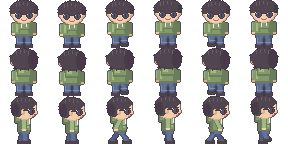
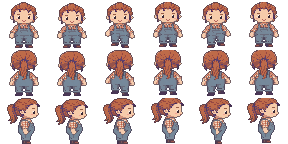
사냥꾼을 사용자 새 그림(포니테일 · 체크 셔츠 · 멜빵바지)으로 교체
- import_ai_character.py: 그림 순서(--order), 포니테일(--hair-span/--front-hair),
  체크무늬 짙은 선(--dark-hair), 멜빵바지(--sleeves) 옵션. 볼 같은 작은 윗도리 조각 정리
- 사냥꾼 얼굴 손질: 둥근 눈 + 반짝, 가는 눈썹, 볼, 웃는 입 (hunter_patch.json)
- make_wear_sheets.py: 사냥꾼 장비 11종을 새 몸에 맞춤 (모자 4 · 조끼 2 · 망토 · 신 4).
  멜빵바지 가슴판도 옷이 덮고(BIB), 모자는 2줄 올림(HAT_DY). 망토는 몸 뒤로 삐져나오게
- 스모크 테스트의 불씨 검사가 동행 공격 간격에 따라 흔들리던 것 고침

Claude-Session: https://claude.ai/code/session_01NHM2Py4KG4VeAYANDgtzPN

diff --git a/tools/make_wear_sheets.py b/tools/make_wear_sheets.py
@@ -308,11 +308,16 @@ ITEMS = {
 # 부위 지도(tools/char_parts/<몸>.png)가 있는 캐릭터의 장비는 아래 방식으로 새 몸에 맞춘다.
 #   모자: 위 모자 그림을 옛 머리(가로 11-36, 머리끝 y=1) 기준에서 새 머리카락 상자로 옮기고 늘려 그린다.
 #   옷 · 신발: 새 몸의 옷 · 신발 픽셀을 장비 색으로 다시 칠한다 (밝기 순서를 지켜 음영이 그대로 산다).
-BODY_OF = {"farmer": "player"}  # 누가 입는지 → 몸 시트 이름 (사냥꾼은 아직 옛 몸이라 위 그림 그대로)
+BODY_OF = {"farmer": "player", "hunter": "hunter"}  # 누가 입는지 → 몸 시트 이름 (부위 지도가 없는 몸은 위 그림 그대로)
 PARTS_DIR = os.path.join(os.path.dirname(__file__), "char_parts")
 PART = {"hair": (40, 40, 40), "skin": (250, 200, 160), "top": (160, 160, 160), "pants": (70, 100, 200),
         "shoes": (120, 60, 20), "detail": (255, 255, 255)}  # import_ai_character.PART_COLORS 와 같음
 OLD_HEAD_X0, OLD_HEAD_X1, OLD_HEAD_TOP = 11, 36, 1
+# 멜빵바지처럼 바지가 가슴까지 올라오는 몸: 이 줄(칸 y)까지의 바지 픽셀도 옷(조끼 · 망토)이 덮는다
+BIB = {"hunter": 33}
+# 모자를 머리카락 위에서 몇 줄 옮길지 (사냥꾼은 정수리 올림머리 때문에 모자가 눈을 가려 2줄 올린다)
+HAT_DY = {"hunter": -2}
+CUR_BODY = [None]
 
 
 class Warp:
@@ -414,18 +419,46 @@ def fit_hat(draw_hat):
         band = [x for x, y in pp["hair"] if y == hy0 + 4]
         cx = (min(band) + max(band)) / 2 if band else (hx0 + hx1) / 2
         ox = round(cx - (OLD_HEAD_X1 - OLD_HEAD_X0) / 2)
-        c = Warp(Canvas(img, col * CELL, row * CELL), ox, hy0 + 2, 1.0, 1.0)
+        c = Warp(Canvas(img, col * CELL, row * CELL), ox, hy0 + 2 + HAT_DY.get(CUR_BODY[0], 0), 1.0, 1.0)
         draw_hat(c, row, 0)
     return fn
 
 
-def fit_top(ramp, vest=False, pocket=None, stripe=None):
-    """옷: 윗도리 픽셀을 다시 칠한다. vest 면 팔(손 위 세로줄)은 남기고, 정면은 앞섶을 연다."""
+def clothes_pts(pp, row, hs):
+    """옷이 덮는 픽셀: 윗도리 + (BIB 몸이면) 가슴까지 올라온 바지. 손 자리는 뺀다."""
+    pts = set(pp["top"])
+    bib = BIB.get(CUR_BODY[0])
+    if bib:
+        hand_x = {x for a, b in hs for x in range(a, b + 1)}
+        pts |= {(x, y) for x, y in pp["pants"] if y <= bib and (row == 2 or x not in hand_x)}
+        # 머리카락 끝 같은 떨어진 부스러기 (5픽셀 이하 덩어리) 는 뺀다
+        keep, seen = set(), set()
+        for p0 in pts:
+            if p0 in seen:
+                continue
+            comp, stack = [], [p0]
+            seen.add(p0)
+            while stack:
+                x, y = stack.pop()
+                comp.append((x, y))
+                for n in ((x + 1, y), (x - 1, y), (x, y + 1), (x, y - 1)):
+                    if n in pts and n not in seen:
+                        seen.add(n)
+                        stack.append(n)
+            if len(comp) > 5:
+                keep |= set(comp)
+        pts = keep
+    return pts
+
+
+def fit_top(ramp, vest=False, pocket=None, stripe=None, lace=None, belt=False):
+    """옷: 윗도리 픽셀을 다시 칠한다. vest 면 팔(손 위 세로줄)은 남기고, 정면은 앞섶을 연다.
+    lace 가 있으면 앞섶을 열지 않고 가운데를 그 색 끈으로 여민다 (사냥꾼 조끼). belt 면 아랫단에 허리띠."""
     def fn(img, row, col, body, pp, edge, pose):
         top = pp["top"]
-        tx0, ty0, tx1, ty1 = bbox(top)
-        pts = set(top)
         hs = hands(pp, top, row)
+        pts = top = clothes_pts(pp, row, hs)
+        tx0, ty0, tx1, ty1 = bbox(top)
         mid = (tx0 + tx1) / 2
         # 소매가 있을 때만 팔을 남긴다. 윗도리 줄 가운데쯤에서 몸 가장자리가 살색이면 맨팔
         body_px = set().union(*pp.values())
@@ -440,7 +473,7 @@ def fit_top(ramp, vest=False, pocket=None, stripe=None):
                 # 소매: 손 위 세로줄 + 몸 쪽으로 2줄
                 a, b = (a, b + 2) if b < mid else (a - 2, b)
                 pts = {(x, y) for x, y in pts if not (a <= x <= b and y > ty0 + 1)}
-        if vest and row == 0:  # 앞섶을 열어 안의 옷이 보이게
+        if vest and row == 0 and not lace:  # 앞섶을 열어 안의 옷이 보이게
             pts = {(x, y) for x, y in pts if abs(x + 0.5 - mid) > 1.6 or y < ty0 + 2}
         paint_ramp(img, row, col, body, pts, edge, ramp)
         c = Canvas(img, col * CELL, row * CELL)
@@ -452,16 +485,91 @@ def fit_top(ramp, vest=False, pocket=None, stripe=None):
             for x0, y0 in spots:
                 c.rect(x0, y0, x0 + 3, y0 + 3, ramp[0])
                 c.rect(x0 + 1, y0 + 1, x0 + 2, y0 + 2, pocket)
+        p = img.load()
         if stripe:
             sy = ty0 + (ty1 - ty0) * 2 // 3
-            p = img.load()
             for x, y in pts:
                 if y == sy and (x, y) not in edge:
                     p[col * CELL + x, row * CELL + y] = (*stripe, 255)
+        if belt:
+            for x, y in pts:
+                if y == ty1 - 1 and (x, y) not in edge:
+                    p[col * CELL + x, row * CELL + y] = (*ramp[0], 255)
+        if lace and row == 0:  # 가운데 끈: 두 줄마다 한 칸 (x 두 칸)
+            for x, y in pts:
+                if abs(x + 0.5 - mid) <= 1 and (y - ty0) % 3 == 2 and ty0 + 1 < y < ty1 - 1 and (x, y) not in edge:
+                    p[col * CELL + x, row * CELL + y] = (*lace, 255)
     return fn
 
 
-def fit_feet(ramp, shaft=0, accent=None):
+def fit_cape(ramp, clasp):
+    """망토: 새 몸 옷 픽셀을 따라 그린다 (머리카락 · 손 위에는 안 그린다).
+    뒷모습은 옷 전체 + 아래로 늘어진 자락, 정면은 어깨 한 줄 + 양옆 2줄 + 가운데 브로치,
+    옆모습은 등 쪽 3줄 + 아래로 늘어진 자락."""
+    d, m, l = ramp
+    line = (int(m[0] * 0.35 + 15.6), int(m[1] * 0.35 + 14.4), int(m[2] * 0.35 + 28.8))
+
+    def paint(img, row, col, cape, edge):
+        # 셔츠 무늬 음영을 따르지 않고 판판하게 칠한다 (체크무늬는 48px 에서 거의 선이라 ramp 로는 선 색만 나온다)
+        p = img.load()
+        for x, y in cape:
+            p[col * CELL + x, row * CELL + y] = (*(line if (x, y) in edge else m), 255)
+
+    def fn(img, row, col, body, pp, edge, pose):
+        pts = clothes_pts(pp, row, hands(pp, pp["top"], row))
+        tx0, ty0, tx1, ty1 = bbox(pts)
+        rows = {}
+        for x, y in pts:
+            rows.setdefault(y, []).append(x)
+        c = Canvas(img, col * CELL, row * CELL)
+        mid = (tx0 + tx1) // 2
+        if row == 1:
+            paint(img, row, col, pts, edge)
+            lo, hi = min(rows[ty1]), max(rows[ty1])
+            c.rect(lo, ty1 + 1, hi, ty1 + 3, m)  # 옷 아래로 3줄 늘어짐
+            c.rect(hi - 1, ty1 + 1, hi, ty1 + 3, d)
+            for x in range(lo, hi, 4):
+                c.rect(x, ty1 + 4, x + 1, ty1 + 4, d)  # 잎 모양 끝단
+            return
+        # 정면 · 옆모습: 망토는 몸 뒤에 있으니 몸 밖(투명한 자리)으로 삐져나온 부분만 그린다 + 어깨 · 브로치
+        body_px = set().union(*pp.values())
+        cape = set()
+        for y in range(ty0 + 1, ty1 + 4):
+            span = sorted(x for x, yy in body_px if yy == y)
+            if not span:
+                continue
+            if row == 2:
+                # 옆: 등 쪽 몸통 가장자리 (옷 픽셀 중 가장 왼쪽) 바깥 3칸, 아래로 갈수록 1칸 더 벌어짐
+                xs = rows.get(y) or rows[ty1]
+                x0 = min(xs)
+                flare = 1 if y > ty1 else 0
+                cape |= {(x, y) for x in range(x0 - 3 - flare, x0) if (x, y) not in body_px}
+            else:
+                lo, hi = span[0], span[-1]
+                cape |= {(lo - 1, y), (hi + 1, y)}
+                if y > ty0 + 3:
+                    cape |= {(lo - 2, y), (hi + 2, y)}
+        if row == 0:
+            shoulder = {(x, y) for x, y in pts if y <= ty0 + 1}
+            cape |= shoulder
+        p = img.load()
+        for x, y in cape:
+            if 0 <= x < CELL and 0 <= y < CELL:
+                p[col * CELL + x, row * CELL + y] = (*(d if row == 2 and y % 3 == 0 else m), 255)
+        # 망토 겉 테두리는 make_fit 뒤에 따로 두르지 않으니 여기서 보랏빛 선
+        for x, y in cape:
+            for nx, ny in ((x - 1, y), (x + 1, y), (x, y + 1)):
+                if (nx, ny) not in cape and (nx, ny) not in body_px and 0 <= nx < CELL and 0 <= ny < CELL:
+                    p[col * CELL + nx, row * CELL + ny] = (*line, 255)
+        if row == 2:
+            x0 = min(rows[ty0])
+            c.rect(x0, ty0, x0 + 1, ty0 + 1, clasp)
+        else:
+            c.rect(mid - 1, ty0 + 1, mid + 1, ty0 + 2, clasp)
+    return fn
+
+
+def fit_feet(ramp, shaft=0, accent=None, lace=None, trim=None):
     """신발: 신발 픽셀을 다시 칠한다. shaft 면 그 줄 수만큼 바짓단도 장화 목으로 덮는다."""
     def fn(img, row, col, body, pp, edge, pose):
         shoes = set(pp["shoes"])
@@ -477,12 +585,33 @@ def fit_feet(ramp, shaft=0, accent=None):
                 cover.add((x, y))
         pts |= cover
         paint_ramp(img, row, col, body, pts, edge, ramp)
+        p = img.load()
         if accent and cover:
-            p = img.load()
             for x, y in cover:
                 if y == min(yy for xx, yy in cover if xx == x) and (x, y) not in edge:
                     p[col * CELL + x, row * CELL + y] = (*accent, 255)
+        if lace and shoes:  # 신발 윗줄 가운데 끈 한 점씩 (발마다)
+            for a, b in runs(sorted({x for x, _ in shoes})):
+                x = (a + b) // 2
+                y = min(yy for xx, yy in shoes if xx == x) + 1
+                if (x, y) in shoes and (x, y) not in edge:
+                    p[col * CELL + x, row * CELL + y] = (*lace, 255)
+        if trim and pts:  # 장화 목 둘레 (깃털 테): 각 세로줄 맨 위 한 칸 위로
+            c = Canvas(img, col * CELL, row * CELL)
+            for x in {x for x, _ in pts}:
+                c.px(x, min(y for xx, y in pts if xx == x) - 1, trim)
     return fn
+
+
+def runs(xs):
+    """이어진 x 묶음 [(시작, 끝)]"""
+    out = []
+    for x in xs:
+        if out and x - out[-1][1] <= 1:
+            out[-1][1] = x
+        else:
+            out.append([x, x])
+    return out
 
 
 FIT = {
@@ -492,6 +621,18 @@ FIT = {
     "rain_suit": fit_top(((50, 66, 100), (70, 92, 132), (100, 126, 166)), stripe=(236, 214, 80)),
     "rain_boots": fit_feet((RUBBER_D, RUBBER, RUBBER_L), shaft=4),
     "work_boots": fit_feet(((40, 40, 48), (62, 62, 72), (96, 96, 108)), shaft=3, accent=(232, 196, 70)),
+    # 사냥꾼 (2026-09-30 사냥꾼 교체 준비. 몸 시트 hunter 에 부위 지도가 생기면 새 몸에 맞춰 그린다)
+    "ball_cap": fit_hat(cap),
+    "acorn_helm": fit_hat(acorn_helm),
+    "leather_hood": fit_hat(leather_hood),
+    "hard_hat": fit_hat(hard_hat),
+    "hunter_jerkin": fit_top((LEATHER_D, LEATHER, LEATHER_L), vest=True, lace=STITCH, belt=True),
+    "hiking_vest": fit_top(((172, 80, 56), (224, 112, 70), (244, 152, 112)), vest=True, stripe=(250, 240, 220)),
+    "forest_cape": fit_cape((CAPE_D, CAPE, CAPE_L), CLASP),
+    "hiking_shoes": fit_feet((HIKE_D, HIKE, (164, 120, 84)), shaft=1, lace=LACE),
+    "safety_shoes": fit_feet(((44, 44, 52), (72, 72, 82), (104, 104, 116)), shaft=1, lace=(204, 208, 216)),
+    "feather_boots": fit_feet((FEATHER_B_D, FEATHER_B, (140, 156, 200)), shaft=4, trim=FEATHER),
+    "leather_shoes": fit_feet((LEATHER_D, LEATHER, LEATHER_L), shaft=1, lace=STITCH),
 }
 
 
@@ -501,6 +642,7 @@ def make_fit(name, fn, body_name):
     img = Image.new("RGBA", (CELL * COLS, CELL * ROWS), (0, 0, 0, 0))
     hat = Image.new("RGBA", img.size, (0, 0, 0, 0))
     poses = IDLE + WALK
+    CUR_BODY[0] = body_name
     for row in range(ROWS):
         for col in range(COLS):
             pp, edge = cell_parts(parts, row, col)
@@ -514,7 +656,7 @@ def make_fit(name, fn, body_name):
     return path
 
 
-HAT_FITS = {FIT["straw_hat"], FIT["work_cap"]}
+HAT_FITS = {FIT[k] for k in ("straw_hat", "work_cap", "ball_cap", "acorn_helm", "leather_hood", "hard_hat")}
 
 
 def who_of(name):

diff --git a/tools/import_ai_character.py b/tools/import_ai_character.py
@@ -15,6 +15,7 @@
   5. 걷기 4 · 숨쉬기 2 프레임을 다리 · 윗몸을 옮겨 만든다.
 
 실행: python3 tools/import_ai_character.py 그림.png --name player [--width 30] [--height 46] [--patch tools/char_parts/player_patch.json]
+      그림 순서가 정면 · 옆 · 뒤면 --order down,side,up
       --preview 파일.png 를 주면 4배 확대 미리보기도 저장한다.
 """
 import argparse
@@ -126,9 +127,13 @@ def classify(c, yf, refs):
             d = sum((a - b) ** 2 for a, b in zip(c, r))
             if d < bd:
                 best, bd = part, d
-    if lum(c) < 60 and best not in ("hair", "shoes"):
+    if lum(c) < 60 and (best not in ("hair", "shoes") or (best == "hair" and yf > DARK_HAIR_MAX)):
         return None
     return best
+
+
+# 이 높이 아래의 어두운 선은 머리카락으로 치지 않는다 (체크무늬 셔츠 선이 머리카락이 되지 않게). --dark-hair
+DARK_HAIR_MAX = 1.0
 
 
 def soften(c, lift, sat):
@@ -186,8 +191,32 @@ def part_map(img, refs):
             if v is None:
                 ns = Counter(lab.get((x + dx, y + dy)) for dx in (-1, 0, 1) for dy in (-1, 0, 1))
                 ns.pop(None, None)
+                if y / (h - 1) > DARK_HAIR_MAX:
+                    ns.pop("hair", None)
                 if ns:
                     lab[x, y] = ns.most_common(1)[0][0]
+    # 윗도리 색과 비슷한 볼 · 입 같은 작은 조각 (3픽셀 이하 덩어리) 은 이웃 부위로. --dark-hair 아래 머리카락 부스러기도
+    for part in ("top", "hair"):
+        seen = set()
+        for start in [k for k, v in lab.items() if v == part]:
+            if start in seen:
+                continue
+            comp, stack = [], [start]
+            seen.add(start)
+            while stack:
+                x, y = stack.pop()
+                comp.append((x, y))
+                for n in ((x + 1, y), (x - 1, y), (x, y + 1), (x, y - 1)):
+                    if n not in seen and lab.get(n) == part:
+                        seen.add(n)
+                        stack.append(n)
+            if len(comp) <= 3 and (part == "top" or min(y for _, y in comp) / (h - 1) > DARK_HAIR_MAX):
+                for x, y in comp:
+                    ns = Counter(lab.get((x + dx, y + dy)) for dx in (-1, 0, 1) for dy in (-1, 0, 1))
+                    ns.pop(None, None)
+                    ns.pop(part, None)
+                    if ns:
+                        lab[x, y] = ns.most_common(1)[0][0]
     # 바지 윗줄 아래로 내려온 윗도리 색 (다리 사이 선 등) 은 바지로
     rows = [Counter(v for (x, yy), v in lab.items() if yy == y) for y in range(h)]
     pants_top = next((y for y in range(h) if rows[y]["pants"] > max(2, rows[y]["top"])), h)
@@ -299,9 +328,20 @@ def main():
     ap.add_argument("--patch")
     ap.add_argument("--preview")
     ap.add_argument("--out")
+    ap.add_argument("--hair-span", type=float, default=0.5, help="뒷모습 · 옆모습에서 머리카락이 내려올 수 있는 높이 (0 머리끝 ~ 1 발끝). 포니테일이면 0.75")
+    ap.add_argument("--front-hair", type=float, default=0.5, help="정면에서 머리카락이 내려올 수 있는 높이 (포니테일은 앞에서 안 보여 0.4 쯤)")
+    ap.add_argument("--dark-hair", type=float, default=1.0, help="이 높이 아래 어두운 선은 머리카락이 아니다 (체크무늬 셔츠면 0.42 쯤)")
+    ap.add_argument("--sleeves", action="store_true", help="윗도리 색을 소매(팔 윗쪽)에서도 뽑는다. 멜빵바지처럼 가슴을 다른 옷이 덮을 때")
+    ap.add_argument("--order", default="down,up,side", help="그림 속 왼쪽부터 순서 (정면 down · 뒷모습 up · 옆 side). 예: down,side,up")
     a = ap.parse_args()
 
+    global DARK_HAIR_MAX
+    DARK_HAIR_MAX = a.dark_hair
+    if a.sleeves:
+        PROBES["top"] = PROBES["top"] + [(0.08, 0.22, 0.44, 0.54), (0.78, 0.92, 0.44, 0.54)]
     figs = split_figures(white_to_alpha(Image.open(a.src)))
+    order = a.order.split(",")
+    figs = [figs[order.index(k)] for k in ("down", "up", "side")]
     strip = Image.new("RGBA", (sum(f.width for f in figs), max(f.height for f in figs)))
     x = 0
     for f in figs:
@@ -316,6 +356,7 @@ def main():
         fill_holes(views[key])
     refs = part_refs(views["down"])
     # 옆모습은 오른쪽을 봐야 한다. 얼굴(살색)이 머리카락보다 왼쪽이면 뒤집는다.
+    SPAN["hair"] = (0, a.hair_span)
     pm = part_map(views["side"], refs).load()
     sw = views["side"].width
     cx = lambda part: sum(x for x in range(sw) for y in range(a.height // 2) if pm[x, y][:3] == PART_COLORS[part]) / max(1, sum(
@@ -324,7 +365,10 @@ def main():
         views["side"] = views["side"].transpose(Image.Transpose.FLIP_LEFT_RIGHT)
         print("옆모습이 왼쪽을 봐서 뒤집음")
     print("부위 색", refs)
-    parts = {k: part_map(v, refs) for k, v in views.items()}
+    parts = {}
+    for k, v in views.items():
+        SPAN["hair"] = (0, a.front_hair if k == "down" else a.hair_span)
+        parts[k] = part_map(v, refs)
     for k, v in views.items():
         for x, y in recolor_body(v, parts[k], a.lift, a.sat):
             p = parts[k].getpixel((x, y))

diff --git a/docs/sprites.md b/docs/sprites.md
@@ -4,9 +4,9 @@
 
 ## 파일
 - `assets/characters/player.png` 플레이어(농부). 곱슬머리, 네모 안경, 흰 민소매, 초록 체크 반바지, 갈색 신 (2026-09-30 사용자 AI 그림에서 가져옴)
-- `assets/characters/hunter.png` 사냥꾼. 외형 미정이라 후드 색만 초록으로 바꾼 임시본
+- `assets/characters/hunter.png` 사냥꾼. 포니테일 갈색 머리, 빨간 체크 셔츠, 청 멜빵바지, 갈색 신 (2026-09-30 사용자 AI 그림에서 가져옴)
 
-사냥꾼 · 대장장이 · 연금술사 · 목축인은 `tools/make_character_sheet.py`가 코드로 그린 **임시 그림**이다.
+대장장이 · 연금술사 · 목축인은 `tools/make_character_sheet.py`가 코드로 그린 **임시 그림**이다.
 최종 아트는 아래 규격을 지킨 PNG로 같은 경로의 파일만 덮어쓰면 된다. 코드는 바꿀 필요 없다.
 
 ## AI 그림에서 가져오기 (2026-09-30~, 농부부터)
@@ -14,8 +14,17 @@ AI가 그린 정면 · 뒷모습 · 옆모습 한 장을 `tools/import_ai_charac
 
 ```
 python3 tools/import_ai_character.py tools/char_parts/player_src.png --name player --patch tools/char_parts/player_patch.json
+python3 tools/import_ai_character.py tools/char_parts/hunter_src.png --name hunter --order down,side,up \
+    --hair-span 0.75 --front-hair 0.42 --dark-hair 0.42 --sleeves --patch tools/char_parts/hunter_patch.json
 python3 tools/make_wear_sheets.py   # 이 캐릭터의 장비 덧그림을 새 몸에 맞춰 다시 만든다
 ```
+
+- 그림 순서가 정면 · 옆 · 뒤면 `--order down,side,up`.
+- 포니테일처럼 머리카락이 등까지 내려오면 `--hair-span` (뒤 · 옆), 정면은 `--front-hair`.
+  체크무늬 셔츠처럼 옷에 머리색과 비슷한 짙은 선이 많으면 `--dark-hair` 아래 짙은 선은 머리카락으로 치지 않는다.
+- 멜빵바지처럼 가슴을 다른 옷이 덮으면 `--sleeves` 로 소매에서도 윗도리 색을 뽑고,
+  `make_wear_sheets.py` 의 `BIB` 에 몸 이름과 가슴판 아래 줄을 적으면 조끼 · 망토가 가슴판도 덮는다.
+  `HAT_DY` 는 모자를 몇 줄 올릴지 (올림머리 때문에 모자가 눈을 가릴 때).
 
 - 가로(`--width`, 기본 30px)와 세로(`--height`, 46px)를 따로 줄여 몸이 가늘어지지 않게 한다. 옆모습이 왼쪽을 보면 알아서 뒤집는다.
 - 부위(머리카락 · 살 · 윗도리 · 바지 · 신발)는 정면 그림 속 정해진 자리의 색으로 나눈다 (`PROBES`). 옷 모양은 자유, 부위끼리 색만 달라야 한다.
